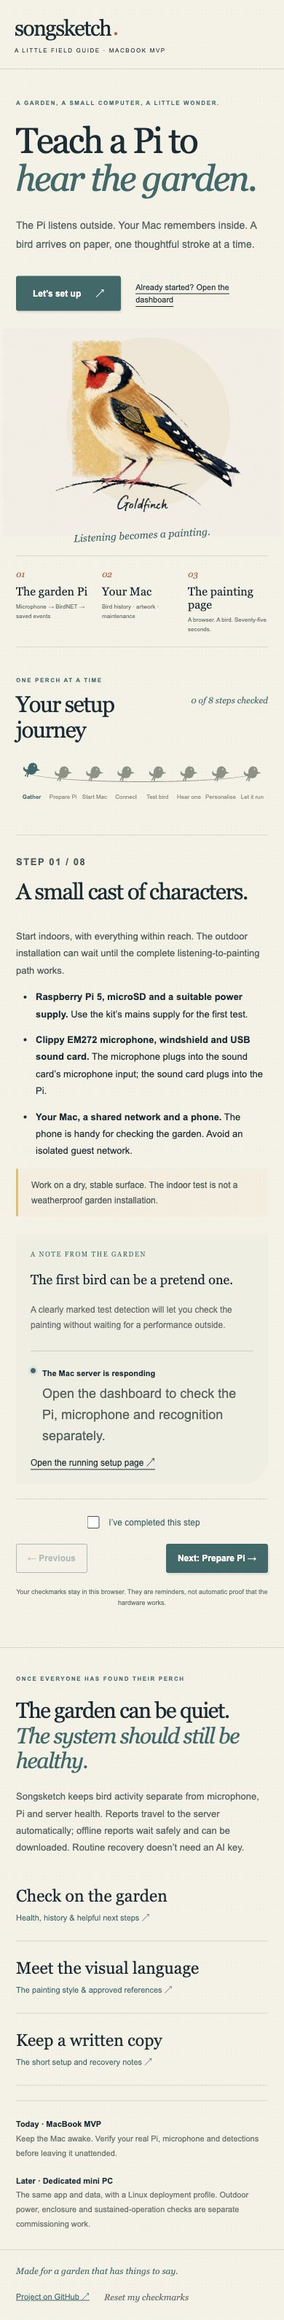
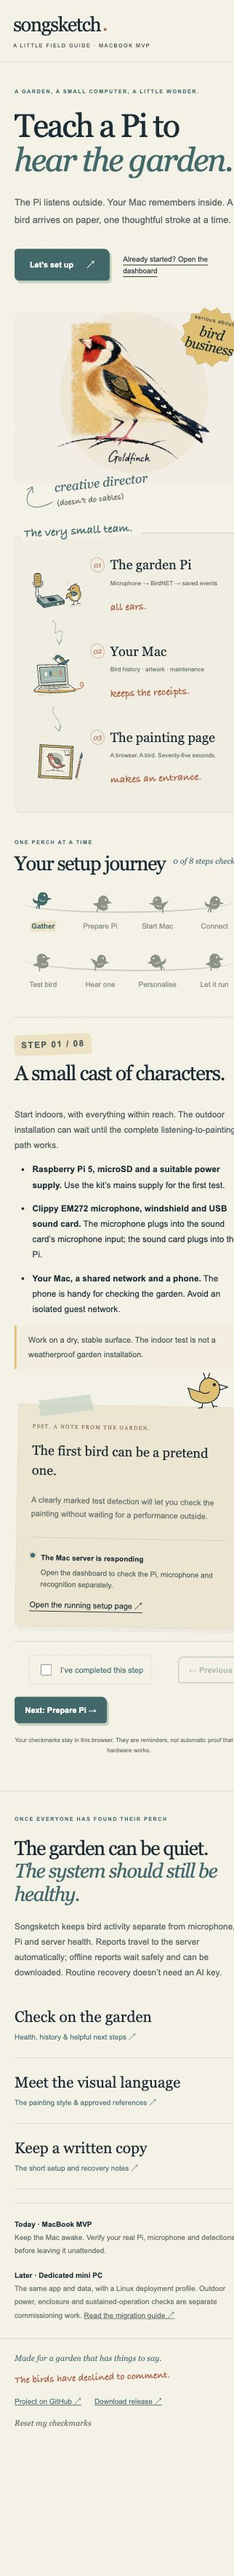
Give the setup field guide a playful illustrated personality

diff --git a/guide/assets/guide.css b/guide/assets/guide.css
@@ -1,1 +1,66 @@
 :root{--paper:#f5f1e6;--ink:#172d35;--teal:#35696b;--muted:#66716c;--line:#d7d8c9;--gold:#e4be67;--coral:#b96145;--white:#fffdf6;font-family:Arial,Helvetica,sans-serif;color:var(--ink);background:var(--paper);font-synthesis:none}*{box-sizing:border-box}body{margin:0;background-image:radial-gradient(#8b886f0d .65px,transparent .65px);background-size:5px 5px}a{color:inherit}button,input{font:inherit}button,a{touch-action:manipulation}button{cursor:pointer}button:focus-visible,a:focus-visible,input:focus-visible{outline:3px solid var(--coral);outline-offset:5px}button:disabled{opacity:.4;cursor:default}h1,h2,h3,p{margin-top:0}h1,h2,h3{font-family:Georgia,'Times New Roman',serif;font-weight:400;letter-spacing:-.045em}h1{font-size:clamp(50px,5.6vw,86px);line-height:1.05;margin-bottom:25px}h1 em,h2 em{font-weight:400;color:var(--teal)}h2{font-size:42px;line-height:1.15;margin-bottom:20px}h3{font-size:36px;line-height:1.2}.masthead,main,footer{max-width:1240px;margin:auto}.masthead{display:flex;align-items:center;gap:30px;padding:28px 36px;border-bottom:1px solid var(--line)}.wordmark{font:30px Georgia,serif;letter-spacing:-1.5px;text-decoration:none}.wordmark-dot{color:var(--coral);font-size:10px;margin-left:4px}.edition{font-size:11px;text-transform:uppercase;letter-spacing:1.6px;flex:1}.quiet-link,.text-link{font-size:12px;text-underline-offset:5px;line-height:1.6}.quiet-link{text-decoration:none}.intro{display:grid;grid-template-columns:1.12fr 1fr;align-items:center;min-height:530px;padding:64px 36px 42px;gap:12px}.eyebrow{text-transform:uppercase;letter-spacing:2.1px;font-size:10px;font-weight:700;color:var(--teal);margin-bottom:20px;line-height:1.7}.intro-copy{font-size:16px;line-height:1.9;color:#536463}.intro-actions{display:flex;align-items:center;gap:24px;margin-top:30px}.primary,.secondary{border-radius:3px;padding:14px 22px;font-size:12px;font-weight:600;border:1px solid var(--teal);text-decoration:none;display:inline-flex;align-items:center;justify-content:center;gap:20px}.primary{background:var(--teal);color:var(--white);box-shadow:2px 3px 0 #264e4c15}.primary:hover{background:#244f51}.secondary{background:transparent;color:var(--teal)}.hero-art{position:relative;isolation:isolate;margin:0;align-self:center}.hero-art img{width:106%;max-width:600px;display:block;margin-left:-3%;mix-blend-mode:multiply;position:relative}.hero-art figcaption{font:italic 16px Georgia,serif;color:var(--teal);text-align:center;transform:rotate(-3deg);margin-top:0}.art-halo{position:absolute;width:65%;height:80%;border-radius:50%;background:#e6c87522;top:4%;left:20%;z-index:-1}.system-strip{display:flex;align-items:center;justify-content:space-between;padding:24px 38px;border-block:1px solid var(--line);gap:20px;margin-inline:36px}.system-strip>div{display:grid;grid-template-columns:22px 1fr;gap:5px 10px}.number{grid-row:span 2;font:italic 16px Georgia,serif;color:var(--coral)}.system-strip strong{font:20px Georgia,serif}.system-strip small{font-size:10px;line-height:1.6;color:var(--muted)}.connection{font:24px Georgia,serif;color:#9aaf9e;letter-spacing:3px}.setup{padding:64px 36px 36px;scroll-margin-top:25px}.section-heading{display:flex;justify-content:space-between;align-items:end}.section-heading .eyebrow{margin-bottom:8px}.section-heading h2{margin-bottom:0}#progress-summary{font:italic 17px Georgia,serif;color:var(--teal)}.perch-nav{display:grid;grid-template-columns:repeat(8,1fr);position:relative;margin:35px 0 36px;padding:0;isolation:isolate}.perch-nav:before{content:"";height:28px;border-bottom:1px solid #8b9a87;border-radius:0 0 50% 50%;position:absolute;top:0;left:4%;right:4%;z-index:-1}.perch{border:0;background:none;color:#8b9285;display:flex;align-items:center;flex-direction:column;padding:0 3px;font-size:10px;gap:9px;min-height:76px}.perch svg{width:35px;height:37px;fill:currentColor;transform:rotate(-3deg);transition:transform .2s}.perch[aria-current=step]{color:var(--teal);font-weight:700}.perch[aria-current=step] svg{transform:translateY(-5px) rotate(4deg)}.perch.checked{color:var(--coral)}.perch span{max-width:85px;line-height:1.5}.step-layout{display:grid;grid-template-columns:1fr 300px;gap:55px;border-top:1px solid var(--line);padding-top:35px;min-height:420px}.step-content>.eyebrow{margin-bottom:10px}.step-content>p{font-size:14px;line-height:1.8;color:#4b5e5c}.step-content ul,.step-content ol{padding-left:22px;font-size:14px;line-height:1.8}.step-content li{padding-left:5px;margin-bottom:12px}.step-content a{color:var(--teal);text-underline-offset:4px}.step-content .tip{border-left:3px solid var(--gold);padding:11px 18px;font-size:12px;background:#e6c87512}.step-content .inline-actions{display:flex;gap:10px;flex-wrap:wrap;margin:20px 0}.step-content code{font-size:11px;overflow-wrap:anywhere;background:#e8e9de;padding:3px 5px}.field-note{background:#e7ebdf80;border-radius:2px 2px 35px 2px;padding:26px 25px;align-self:start}.field-note>.eyebrow{font-size:9px;margin-bottom:15px}.field-note p{font:19px/1.5 Georgia,serif}.field-note small{font:12px/1.7 Arial,sans-serif;color:var(--muted);display:block}.server-peek{display:flex;align-items:start;gap:9px;border-top:1px solid #c9d0c0;padding-top:19px;margin-top:25px}.server-peek strong{font-size:11px}.server-peek p{font:11px/1.6 Arial,sans-serif;margin:6px 0 12px;color:#566660}.status-dot{border-radius:50%;width:7px;height:7px;flex:none;margin-top:4px;background:#b5b5a5}.status-dot.good{background:var(--teal);box-shadow:0 0 0 3px #35696b17}.step-controls{display:flex;align-items:center;justify-content:space-between;gap:20px;padding-top:28px;margin-top:20px;border-top:1px solid var(--line)}.done-label{display:flex;align-items:center;gap:10px;font-size:12px;color:var(--teal)}input[type=checkbox]{accent-color:var(--teal);width:17px;height:17px}.saving-note{font-size:10px;color:var(--muted);text-align:center;line-height:1.6;margin-top:19px}.aftercare{display:grid;grid-template-columns:1.2fr 1fr;gap:80px;padding:65px 36px;border-top:1px solid var(--line);margin-top:25px}.aftercare h2{font-size:35px}.aftercare p:not(.eyebrow){font-size:13px;line-height:1.8;color:#536463;max-width:520px}.aftercare-links a{display:block;padding:23px 0;border-bottom:1px solid var(--line);text-decoration:none}.aftercare-links span{display:block;font:24px Georgia,serif;margin-bottom:7px}.aftercare-links small{font-size:11px;color:var(--teal)}.profiles{display:grid;grid-template-columns:1fr 1fr;gap:45px;margin:0 36px 36px;padding:22px 0;border-top:1px solid var(--line)}.profiles p{font-size:11px;line-height:1.8;color:var(--muted);margin:0}.profiles strong{color:var(--ink)}footer{padding:25px 36px;border-top:1px solid var(--line);display:flex;justify-content:space-between;gap:20px;font:italic 12px Georgia,serif;color:var(--teal)}footer>div{display:flex;gap:20px}footer button{border:0;padding:0;background:transparent;color:var(--muted);cursor:pointer}footer a{font:11px Arial,sans-serif}.reset-confirm{color:var(--coral)}[hidden]{display:none!important}@media(max-width:900px){.intro{grid-template-columns:1fr 1fr;padding-top:48px;min-height:460px}.intro-actions{align-items:start;flex-direction:column;gap:16px}.step-layout{grid-template-columns:1fr 240px;gap:30px}.system-strip{padding-inline:0}.connection{font-size:16px;letter-spacing:0}.aftercare{gap:35px}.edition{font-size:9px}}@media(max-width:640px){.masthead{padding:20px;gap:10px;flex-wrap:wrap}.edition{font-size:8px;flex:auto}.masthead .quiet-link{display:none}h1{font-size:49px}.intro{display:flex;flex-direction:column;padding:39px 22px 20px;align-items:stretch}.intro-copy{font-size:14px}.intro-copy br{display:none}.intro-actions{flex-direction:row;gap:20px;align-items:center}.intro-actions .text-link{max-width:150px;font-size:11px}.hero-art{max-width:380px;width:100%;margin-top:12px}.hero-art img{width:110%;margin-left:-5%}.hero-art figcaption{margin-top:-10px;font-size:14px}.eyebrow{font-size:8px;letter-spacing:1.6px}.system-strip{margin-inline:22px;padding:18px 0;align-items:stretch;gap:8px}.system-strip>div{display:block;flex:1}.system-strip .number{font-size:12px;display:block;margin-bottom:8px}.system-strip strong{font-size:16px;display:block}.system-strip small{font-size:8px;display:block;margin-top:5px}.connection{display:none}.setup{padding:38px 22px 20px}.section-heading{align-items:start;gap:10px}.section-heading h2{font-size:31px}#progress-summary{font-size:12px;margin-top:28px;white-space:nowrap}.perch-nav{margin:25px 0;gap:0;overflow:visible}.perch{font-size:8px;padding:0 1px}.perch svg{width:28px;height:34px}.perch span{max-width:42px}.step-layout{display:block;padding-top:25px;min-height:0}h3{font-size:31px}.step-content ul,.step-content ol,.step-content>p{font-size:13px}.field-note{margin-top:25px;padding:20px}.field-note p{font-size:18px}.step-controls{flex-wrap:wrap;padding-top:20px;gap:18px}.step-controls .primary,.step-controls .secondary{padding:12px 15px}.done-label{order:-1;width:100%;justify-content:center}.saving-note{font-size:9px}.aftercare{display:block;padding:35px 22px 20px}.aftercare h2{font-size:30px}.aftercare-links{margin-top:18px}.aftercare-links span{font-size:23px}.profiles{display:block;margin:0 22px 25px;padding-bottom:0}.profiles p+p{margin-top:18px}footer{display:block;padding:22px;font-size:12px}footer>div{margin-top:20px;flex-wrap:wrap}}@media(prefers-reduced-motion:reduce){*{scroll-behavior:auto!important;transition:none!important}}
+
+/* A field guide with a few uninvited contributors. Keep the instructions calm. */
+.margin-scribble,.director-note{font-family:'Bradley Hand','Segoe Print','Comic Sans MS',cursive;font-weight:400;letter-spacing:0;text-transform:none}
+.masthead-scribble{font-size:14px;color:var(--coral);transform:rotate(-4deg);white-space:nowrap}
+.intro{position:relative;min-height:550px;padding-top:55px;padding-bottom:62px}
+.hero-art{padding:10px 0 25px}
+.art-halo{border-radius:44% 56% 48% 52%;transform:rotate(14deg)}
+.bird-business{position:absolute;z-index:2;width:116px;height:116px;right:0;top:-12px;transform:rotate(12deg);color:var(--ink);pointer-events:none}
+.bird-business>svg{position:absolute;inset:0;width:100%;height:100%;fill:var(--gold);stroke:#b89544;stroke-width:.6}
+.bird-business>span{position:absolute;inset:20px 10px;text-align:center;font:9px/1.5 Arial,sans-serif;letter-spacing:1px}
+.bird-business b{display:block;font:italic 23px/.95 Georgia,serif;letter-spacing:-.6px;margin-top:4px}
+.hero-art .director-note{position:absolute;display:flex;gap:3px;align-items:end;text-align:left;bottom:-5px;left:0;transform:rotate(-6deg);font-size:20px;line-height:1.1;margin:0;color:var(--teal)}
+.director-note svg{width:68px;height:65px;fill:none;stroke:currentColor;stroke-width:1.7;stroke-linecap:round;stroke-linejoin:round;transform:rotate(-10deg)}
+.director-note span{padding-bottom:1px}.director-note small{font:14px/1.5 'Bradley Hand','Segoe Print','Comic Sans MS',cursive;color:var(--muted)}
+.primary{border-radius:5px 9px 5px 7px;box-shadow:3px 4px 0 #c5d1be;transition:transform .18s,box-shadow .18s}
+.primary:hover{transform:translateY(-2px) rotate(-1deg);box-shadow:4px 6px 0 #c5d1be}
+.secondary{border-radius:8px 3px 8px 4px}
+.system-strip{position:relative;padding:40px 26px 27px;gap:12px;border-top:1px solid #c0c9b6;border-bottom:1px solid #c0c9b6;background:#ecebdc70;border-radius:43% 2% 3% 2% / 2% 3% 2% 4%}
+.crew-intro{position:absolute;left:24px;top:-15px;margin:0;background:var(--paper);padding:0 13px 0 4px;color:var(--teal);font-size:20px;transform:rotate(-3deg)}
+.system-strip>.crew-member{position:relative;display:grid;grid-template-columns:25px 1fr;gap:6px 8px;flex:1;min-width:0}
+.crew-drawing{width:100%;height:142px;grid-column:1/-1;overflow:visible;margin-bottom:10px}
+.system-strip .number{display:flex;align-items:center;justify-content:center;width:24px;height:26px;border:1px solid #b9614570;border-radius:47% 53% 46% 54%;font-size:13px;transform:rotate(-10deg);grid-row:span 2}
+.system-strip strong{font-size:22px;white-space:nowrap}
+.system-strip small{font-size:10px}
+.crew-aside{grid-column:2;font-size:17px;line-height:1.5;color:var(--coral);transform:rotate(-2deg);margin-top:3px}
+.system-strip .connection{width:85px;height:60px;flex:none;align-self:center;margin-top:-77px;fill:none;stroke:var(--teal);stroke-width:1.6;stroke-linecap:round;stroke-linejoin:round;opacity:.7}
+.perch-nav:before{border-bottom:2px solid #8b9a8770;height:30px;transform:rotate(-.5deg)}
+.perch svg{overflow:visible;transition:transform .2s;transform-origin:50% 85%}
+.perch:nth-child(2) svg{transform:rotate(11deg)}
+.perch:nth-child(3) svg{transform:scaleX(-1) rotate(-8deg)}
+.perch:nth-child(5) svg{transform:rotate(-10deg)}
+.perch:nth-child(7) svg{transform:scaleX(-1) rotate(6deg)}
+.perch:hover svg,.perch[aria-current=step] svg{transform:translateY(-6px) rotate(-7deg)}
+.perch.checked svg{fill:var(--coral)}
+.perch[aria-current=step] span{background:#e4be674a;border-radius:45% 3% 20% 3%;padding-inline:5px}
+.step-layout{gap:58px}
+.step-content>.eyebrow{display:inline-block;transform:rotate(-2deg);padding:4px 10px;background:#e4be6750;border-radius:4px 9px 3px 5px}
+.field-note{position:relative;background:#eee5cf;border:1px solid #d4c7a550;box-shadow:4px 6px 0 #172d3508;border-radius:2px 3px 23px 3px;transform:rotate(1.6deg);margin-top:10px;padding-top:34px}
+.note-tape{position:absolute;top:-12px;left:29px;width:83px;height:25px;transform:rotate(-7deg);background:#c0d3c2b3;clip-path:polygon(0 5%,97% 0,100% 95%,4% 100%,0 85%,4% 65%,0 45%,4% 25%);border-inline:1px dashed #789b8560}
+.note-bird{position:absolute;right:12px;top:-66px;width:78px;height:76px;stroke:var(--ink);stroke-width:1.8;stroke-linecap:round;stroke-linejoin:round;fill:none;transform:rotate(-5deg)}
+.field-note>.eyebrow{color:#8a6243;font-size:8px;letter-spacing:1.5px}
+.field-note p{font-size:21px}.server-peek p{font-size:11px}
+.done-label{padding:10px 13px;border:1px dashed #8b9a8770;border-radius:3px 9px 4px 7px}
+.done-label:has(input:checked){background:#dce5d577;border-color:var(--teal)}
+.aftercare-links a:nth-child(2){transform:rotate(-1deg)}
+.footer-scribble{display:block;font-size:15px;color:var(--coral);margin-top:12px;transform:rotate(-2deg)}
+@media(max-width:1000px){.masthead-scribble{display:none}.system-strip{padding-inline:16px;gap:8px}.system-strip .connection{width:55px}.system-strip strong{font-size:19px}.crew-drawing{height:125px}.crew-aside{font-size:15px}.bird-business{width:98px;height:98px}.bird-business>span{inset:16px 8px;font-size:8px}.bird-business b{font-size:21px}.hero-art .director-note{left:-10px;font-size:18px}}
+@media(max-width:640px){
+ .intro{padding-top:37px;padding-bottom:43px;min-height:0}.hero-art{padding-bottom:30px;margin-top:26px}.hero-art img{width:100%;margin-left:0}.bird-business{right:1px;top:0;width:95px;height:95px}.hero-art .director-note{bottom:-6px;left:3px;font-size:19px}.director-note svg{width:55px;height:54px}.director-note small{font-size:13px}
+ .system-strip{display:flex;flex-direction:column;gap:0;margin:0 22px;padding:30px 16px 20px;align-items:stretch}.crew-intro{font-size:18px;left:10px}
+ .system-strip>.crew-member{display:grid;grid-template-columns:92px 23px 1fr;column-gap:7px;row-gap:4px;align-items:center;min-height:110px;width:100%}
+ .crew-drawing{grid-column:1;grid-row:1/4;width:96px;height:96px;margin:0}.system-strip .number{grid-column:2;grid-row:1;margin:0;width:21px;height:23px;font-size:11px}.system-strip strong{grid-column:3;grid-row:1;font-size:20px;white-space:normal;align-self:center}.system-strip small{grid-column:3;grid-row:2;font-size:9px;line-height:1.5;margin:0;align-self:start}.crew-aside{grid-column:3;grid-row:3;font-size:16px;margin:0 0 7px;align-self:start}
+ .system-strip .connection{display:block;align-self:start;width:43px;height:30px;margin:-5px 0 -5px 26px;transform:rotate(80deg)}
+ .section-heading h2{font-size:30px}.perch svg{width:29px}.perch[aria-current=step] span{padding-inline:2px}.field-note{margin:55px 3px 5px;padding:27px 21px 22px;transform:rotate(1deg)}.note-bird{right:15px;top:-61px;width:72px;height:70px}.field-note p{font-size:20px}.server-peek p{font-size:11px}.done-label{width:auto;margin:auto}.aftercare-links a:nth-child(2){transform:none}footer>div{row-gap:15px}
+}
+
+.crew-symbols{position:absolute;width:0;height:0;overflow:hidden;pointer-events:none}
+@media(prefers-reduced-motion:reduce){.primary,.perch svg{transition:none}.primary:hover{transform:none}}
+@media(max-width:640px){
+ .perch-nav{grid-template-columns:repeat(4,1fr);row-gap:12px}
+ .perch{font-size:11px;min-height:76px;gap:7px;padding-inline:3px}
+ .perch svg{width:34px;height:37px}
+ .perch span{max-width:76px}
+ .perch-nav:after{content:"";height:30px;border-bottom:2px solid #8b9a8770;border-radius:0 0 50% 50%;position:absolute;top:88px;left:4%;right:4%;z-index:-1;transform:rotate(.5deg)}
+}

diff --git a/guide/index.html b/guide/index.html
@@ -6,24 +6,128 @@
   <link rel="stylesheet" href="assets/guide.css">
 </head>
 <body>
-  <header class="masthead"><a class="wordmark" href="#">songsketch<span class="wordmark-dot">●</span></a><span class="edition">A little field guide · MacBook MVP</span><a class="quiet-link" href="../README.md">Project notes ↗</a></header>
+  <!-- Embedded for the standalone file guide as well as the served page. -->
+  <svg xmlns="http://www.w3.org/2000/svg" class="crew-symbols" aria-hidden="true" width="0" height="0">
+  <!-- Original Songsketch field-guide drawings. Each symbol has a transparent
+       200 × 140 canvas; labels and accessible names belong to the host page. -->
+  <symbol id="garden-pi" viewBox="0 0 200 140">
+    <g stroke="#263e48" stroke-width="1.8" stroke-linecap="round" stroke-linejoin="round">
+      <!-- The microphone leans towards its very interested neighbour. -->
+      <path d="M42 101C37 97 32 90 33 82L35 54" fill="none"/>
+      <path d="M28 27C28 16 47 14 50 25L51 50C51 61 31 64 30 52Z" fill="#d7aa58"/>
+      <path d="M32 24C34 20 42 19 46 22M32 30L47 28M32 36L47 34M33 42L48 40M34 48L48 46" stroke-width="1" fill="none"/>
+      <path d="M25 45L26 54C28 68 54 64 56 53L55 42M41 66L43 91" fill="none"/>
+      <path d="M40 90L50 89L51 101L38 103Z" fill="#eee5d2"/>
+      <!-- A little computer, with imperfect edges and a visible circuit. -->
+      <path d="M39 96L103 87L124 104L59 116Z" fill="#94b3a7"/>
+      <path d="M59 116L124 104L123 114L59 126L38 107L39 96L59 116Z" fill="#3e7878"/>
+      <path d="M59 116L59 126M42 101L55 112" fill="none"/>
+      <path d="M68 97L89 94L101 103L79 107Z" fill="#263e48"/>
+      <path d="M69 101L62 102L58 98M88 95L93 91M94 100L109 97M79 108L79 113M69 106L66 110" stroke="#f5efdf" stroke-width="1" fill="none"/>
+      <path d="M98 112L109 110L109 117L98 119Z" fill="#f5efdf"/>
+      <path d="M113 109L120 108L120 115L113 116Z" fill="#d7aa58"/>
+      <path d="M48 109L51 111M45 106L46 107M82 121L92 119" stroke="#b7d0c1" stroke-width="1"/>
+      <circle cx="58" cy="97" r="2.5" fill="#d9836c" stroke-width="1.2"/>
+      <!-- An original, inquisitive garden visitor; no costume required. -->
+      <path d="M144 78C139 69 141 58 151 55C164 50 175 60 172 72C181 84 174 103 160 106C150 108 138 99 139 91L129 99L132 83Z" fill="#d7aa58"/>
+      <path d="M169 76C167 87 159 91 148 88C146 99 157 105 165 101" fill="#f5efdf" stroke="none"/>
+      <path d="M144 79C147 74 159 76 165 82C160 91 147 94 144 79Z" fill="#3e7878"/>
+      <path d="M148 80L158 85M148 84L153 87" stroke="#a8c3b5" stroke-width="1.1"/>
+      <path d="M143 65L134 70L144 72" fill="#d9836c"/>
+      <circle cx="151" cy="65" r="2.5" fill="#263e48" stroke="none"/>
+      <circle cx="150.5" cy="64" r=".65" fill="#f5efdf" stroke="none"/>
+      <path d="M155 106L152 116L146 118M152 116L156 118M165 105L167 113L174 113M167 113L163 116M155 55L156 50M159 54L162 50" fill="none"/>
+      <path d="M132 54L128 50M136 48L135 43" stroke="#d9836c" stroke-width="1.4" fill="none"/>
+      <path d="M142 123L157 122M165 121L178 120" stroke="#d7aa58" stroke-width="1.2" fill="none"/>
+    </g>
+  </symbol>
+  <symbol id="indoor-mac" viewBox="0 0 200 140">
+    <g stroke="#263e48" stroke-width="1.8" stroke-linecap="round" stroke-linejoin="round">
+      <!-- An open laptop: the cable has acquired a slightly tail-like curl. -->
+      <path d="M38 36C61 34 103 36 131 33L136 96L44 100Z" fill="#eee5d2"/>
+      <path d="M45 43L125 41L129 88L50 93Z" fill="#9db9af"/>
+      <path d="M51 47L88 46M119 47L120 55" stroke="#c6d3bf" stroke-width="1.5" fill="none"/>
+      <path d="M44 100L136 96L159 113C120 121 66 122 28 115Z" fill="#f5efdf"/>
+      <path d="M28 115L30 120C74 126 122 124 159 117L159 113" fill="#d7aa58"/>
+      <path d="M53 101L127 98L139 107L42 112Z" fill="#e3d8c0" stroke-width="1.1"/>
+      <path d="M57 103L125 101M51 107L132 104M62 102L67 108M74 101L79 108M87 101L93 108M101 100L108 107M114 100L121 106" stroke-width=".7" fill="none"/>
+      <path d="M77 112L102 111L109 116L72 117Z" fill="#f5efdf" stroke-width="1"/>
+      <circle cx="86" cy="39" r="1" fill="#263e48" stroke="none"/>
+      <path d="M153 112C168 111 183 111 184 99C185 90 178 88 174 94C172 98 177 103 183 102" stroke="#d9836c" stroke-width="3.2" fill="none"/>
+      <path d="M154 110L158 112M177 91L180 90" stroke-width="1" fill="none"/>
+      <!-- A few small stored marks on the screen, rather than interface text. -->
+      <path d="M62 59L69 58L70 70L63 71Z" fill="#f5efdf" stroke="none"/>
+      <path d="M76 55L83 55L85 70L78 70Z" fill="#3e7878" stroke="none"/>
+      <path d="M91 59L98 58L99 69L92 70Z" fill="#d7aa58" stroke="none"/>
+      <path d="M107 52L114 52L116 68L109 69Z" fill="#d9836c" stroke="none"/>
+      <path d="M61 80C73 77 79 82 87 78C96 74 101 80 118 76" stroke="#f5efdf" stroke-width="1.3" fill="none"/>
+      <!-- The resident is calmly supervising from the lid. -->
+      <path d="M101 25C94 23 91 14 96 8C101 2 111 5 114 11C119 11 124 17 124 23L139 19L132 28C121 35 106 34 101 25Z" fill="#3e7878"/>
+      <path d="M97 19C100 28 110 30 116 27C110 22 109 16 108 12" fill="#f5efdf" stroke="none"/>
+      <path d="M114 17C121 16 126 22 122 26C116 27 111 23 114 17Z" fill="#d7aa58" stroke-width="1.1"/>
+      <path d="M95 13L87 16L96 18" fill="#d9836c" stroke-width="1.2"/>
+      <circle cx="101" cy="12" r="1.7" fill="#263e48" stroke="none"/>
+      <path d="M109 31L108 36L104 37M119 31L120 35L124 35" fill="none"/>
+      <path d="M119 20L121 22M97 8L95 5" stroke-width=".9" fill="none"/>
+      <path d="M40 129L64 130M72 130L81 130" stroke="#d7aa58" stroke-width="1.1" fill="none"/>
+    </g>
+  </symbol>
+  <symbol id="painting-page" viewBox="0 0 200 140">
+    <g stroke="#263e48" stroke-width="1.8" stroke-linecap="round" stroke-linejoin="round">
+      <!-- A slightly wonky frame and a sheet that refuses to lie quite flat. -->
+      <path d="M47 15L152 21L147 124L42 119Z" fill="#d7aa58"/>
+      <path d="M53 22L145 27L140 117L49 112Z" fill="#f5efdf"/>
+      <path d="M47 15L53 22M152 21L145 27M147 124L140 117M42 119L49 112" stroke-width="1" fill="none"/>
+      <path d="M48 32L45 83M44 96L44 109M150 34L146 89M59 120L85 121" stroke="#b78339" stroke-width="1.1" fill="none"/>
+      <path d="M58 30L138 34L134 109L56 106Z" fill="#f5efdf" stroke="#b8ad91" stroke-width=".7"/>
+      <!-- A single broad colour shape and a new, informal ink-and-paint bird. -->
+      <path d="M78 44C91 37 110 40 117 52C124 65 117 79 104 83C90 86 76 79 72 66C70 58 73 48 78 44Z" fill="#b7c8b1" stroke="none"/>
+      <path d="M73 54C70 46 76 41 82 44C87 45 89 51 88 56C102 53 114 66 112 77L127 81L114 87C98 94 80 83 78 70Z" fill="#d9836c"/>
+      <path d="M82 61C85 74 94 84 107 84C103 74 93 63 82 61Z" fill="#f5efdf" stroke="none"/>
+      <path d="M92 60C103 60 111 70 106 77C97 77 90 71 92 60Z" fill="#3e7878" stroke-width="1.2"/>
+      <path d="M96 64L103 72M95 68L98 72M99 63L106 69" stroke="#d7aa58" stroke-width=".9" fill="none"/>
+      <path d="M75 50L67 53L76 56" fill="#d7aa58" stroke-width="1.2"/>
+      <circle cx="80" cy="50" r="1.8" fill="#263e48" stroke="none"/>
+      <path d="M91 86L90 95L85 96M100 88L103 96L107 97M66 98C85 94 108 97 124 100" fill="none" stroke-width="1.3"/>
+      <path d="M81 44L82 40M88 72L90 76M90 79L93 82M112 82L119 83" fill="none" stroke-width=".8"/>
+      <!-- The paper curl catches a tiny coral edge. -->
+      <path d="M121 33C126 37 127 44 126 49C132 45 137 46 141 48C139 42 139 37 138 34Z" fill="#eee5d2" stroke-width="1.1"/>
+      <path d="M126 49C131 45 136 45 141 48L136 51Z" fill="#d9836c" stroke-width=".8"/>
+      <path d="M59 33L59 44M61 34L61 38M124 104L130 104" stroke="#dfd5bb" stroke-width=".8" fill="none"/>
+      <!-- A well-used brush, set down with its paint still on the tip. -->
+      <path d="M159 119L171 67L175 68L164 120Z" fill="#d9836c" stroke-width="1.3"/>
+      <path d="M171 67L173 58L177 59L175 68Z" fill="#eee5d2" stroke-width="1.1"/>
+      <path d="M173 58C171 51 178 47 178 40C183 48 182 54 177 59Z" fill="#3e7878" stroke-width="1.3"/>
+      <path d="M176 53L178 47" stroke="#a4bfaf" stroke-width=".8" fill="none"/>
+      <path d="M159 126C165 124 170 126 176 124" stroke="#d7aa58" stroke-width="1.1" fill="none"/>
+    </g>
+  </symbol>
+</svg>
+  <header class="masthead"><a class="wordmark" href="#">songsketch<span class="wordmark-dot">●</span></a><span class="edition">A little field guide · MacBook MVP</span><span class="margin-scribble masthead-scribble">human assembly required</span><a class="quiet-link" href="../README.md">Project notes ↗</a></header>
   <main>
     <section class="intro" aria-labelledby="page-title">
       <div><p class="eyebrow">A garden, a small computer, a little wonder.</p><h1 id="page-title">Teach a Pi to<br><em>hear the garden.</em></h1><p class="intro-copy">The Pi listens outside. Your Mac remembers inside.<br> A bird arrives on paper, one thoughtful stroke at a time.</p><div class="intro-actions"><button class="primary" id="begin">Let’s set up <span aria-hidden="true">↗</span></button><a class="text-link" href="http://localhost:8765/dashboard">Already started? Open the dashboard</a></div></div>
-      <figure class="hero-art"><span class="art-halo" aria-hidden="true"></span><img src="../artwork/thumbnails/goldfinch.png" alt="Our approved goldfinch painting: red face, golden wings and delicate ink details on cream paper"><figcaption>Listening becomes a painting.</figcaption></figure>
+      <figure class="hero-art"><span class="art-halo" aria-hidden="true"></span><span class="bird-business" aria-hidden="true"><svg viewBox="0 0 120 120"><path d="M60 3 71 12 85 8 91 21 106 23 107 38 118 48 111 61 116 75 103 83 100 99 84 100 73 114 60 108 46 116 36 103 20 101 18 85 5 76 10 62 2 49 14 39 14 24 29 21 35 8 49 12Z"/></svg><span>serious about<br><b>bird<br>business</b></span></span><img src="../artwork/thumbnails/goldfinch.png" alt="Our approved goldfinch painting: red face, golden wings and delicate ink details on cream paper"><figcaption class="director-note"><svg viewBox="0 0 100 76" aria-hidden="true"><path d="M91 69C25 85 3 46 49 16M33 17l17-4-4 18"/></svg><span>creative director<br><small>(doesn’t do cables)</small></span></figcaption></figure>
     </section>
-    <section class="system-strip" aria-label="How Songsketch connects"><div><span class="number">01</span><strong>The garden Pi</strong><small>Microphone → BirdNET → saved events</small></div><span class="connection" aria-hidden="true">······→</span><div><span class="number">02</span><strong>Your Mac</strong><small>Bird history · artwork · maintenance</small></div><span class="connection" aria-hidden="true">······→</span><div><span class="number">03</span><strong>The painting page</strong><small>A browser. A bird. Seventy-five seconds.</small></div></section>
+    <section class="system-strip" aria-label="How Songsketch connects">
+      <p class="crew-intro margin-scribble">The very small team.</p>
+      <div class="crew-member"><svg class="crew-drawing" viewBox="0 0 200 140" aria-hidden="true"><use href="#garden-pi"/></svg><span class="number">01</span><strong>The garden Pi</strong><small>Microphone → BirdNET → saved events</small><span class="crew-aside margin-scribble">all ears.</span></div>
+      <svg class="connection" viewBox="0 0 100 60" aria-hidden="true"><path d="M6 37C23 9 62 56 48 26S68 12 91 28M78 14l14 14-21 5"/></svg>
+      <div class="crew-member"><svg class="crew-drawing" viewBox="0 0 200 140" aria-hidden="true"><use href="#indoor-mac"/></svg><span class="number">02</span><strong>Your Mac</strong><small>Bird history · artwork · maintenance</small><span class="crew-aside margin-scribble">keeps the receipts.</span></div>
+      <svg class="connection" viewBox="0 0 100 60" aria-hidden="true"><path d="M5 31C33 56 58 4 91 28M75 17l18 11-18 13"/></svg>
+      <div class="crew-member"><svg class="crew-drawing" viewBox="0 0 200 140" aria-hidden="true"><use href="#painting-page"/></svg><span class="number">03</span><strong>The painting page</strong><small>A browser. A bird. Seventy-five seconds.</small><span class="crew-aside margin-scribble">makes an entrance.</span></div>
+    </section>
     <section class="setup" id="setup" aria-labelledby="setup-heading">
       <div class="section-heading"><div><p class="eyebrow">One perch at a time</p><h2 id="setup-heading">Your setup journey</h2></div><p id="progress-summary" aria-live="polite">0 of 8 steps checked</p></div>
       <nav class="perch-nav" id="step-nav" aria-label="Setup steps"></nav>
-      <div class="step-layout"><article id="step-content" class="step-content" aria-live="polite"></article><aside class="field-note"><p class="eyebrow">A note from the garden</p><div id="field-note"></div><div class="server-peek"><span class="status-dot unknown" id="server-dot"></span><div><strong id="server-label">Your Mac server</strong><p id="server-message">Open Start Songsketch.command to bring it to life.</p></div></div><a href="http://localhost:8765/setup" class="text-link">Open the running setup page ↗</a></aside></div>
+      <div class="step-layout"><article id="step-content" class="step-content" aria-live="polite"></article><aside class="field-note"><span class="note-tape" aria-hidden="true"></span><svg class="note-bird" viewBox="0 0 100 90" aria-hidden="true"><path d="M20 65C6 60 11 45 6 37L30 47C28 25 47 12 62 23 73 29 76 42 70 55 62 73 35 76 20 65Z" fill="#e4be67"/><path d="m71 34 19 7-17 5M30 45c6 7 15 8 21 3M35 71l-3 11m2-3-9 2m29-11 3 12m-1-4 9 2"/><circle cx="62" cy="34" r="2.4" fill="#172d35"/><path d="m44 19-3-11m9 11 4-10"/></svg><p class="eyebrow">Psst. A note from the garden.</p><div id="field-note"></div><div class="server-peek"><span class="status-dot unknown" id="server-dot"></span><div><strong id="server-label">Your Mac server</strong><p id="server-message">Open Start Songsketch.command to bring it to life.</p></div></div><a href="http://localhost:8765/setup" class="text-link">Open the running setup page ↗</a></aside></div>
       <div class="step-controls"><button class="secondary" id="previous">← Previous</button><label class="done-label"><input type="checkbox" id="step-done"><span>I’ve completed this step</span></label><button class="primary" id="next">Next step →</button></div>
       <p class="saving-note">Your checkmarks stay in this browser. They are reminders, not automatic proof that the hardware works.</p>
     </section>
     <section class="aftercare"><div><p class="eyebrow">Once everyone has found their perch</p><h2>The garden can be quiet.<br><em>The system should still be healthy.</em></h2><p>Songsketch keeps bird activity separate from microphone, Pi and server health. Reports travel to the server automatically; offline reports wait safely and can be downloaded. Routine recovery doesn’t need an AI key.</p></div><div class="aftercare-links"><a href="http://localhost:8765/dashboard"><span>Check on the garden</span><small>Health, history & helpful next steps ↗</small></a><a href="../artwork/style-guide.html"><span>Meet the visual language</span><small>The painting style & approved references ↗</small></a><a href="../docs/friend-start-here.md"><span>Keep a written copy</span><small>The short setup and recovery notes ↗</small></a></div></section>
     <section class="profiles"><p><strong>Today · MacBook MVP</strong><br>Keep the Mac awake. Verify your real Pi, microphone and detections before leaving it unattended.</p><p><strong>Later · Dedicated mini PC</strong><br>The same app and data, with a Linux deployment profile. Outdoor power, enclosure and sustained-operation checks are separate commissioning work. <a href="../docs/production.md">Read the migration guide ↗</a></p></section>
   </main>
-  <footer><span>Made for a garden that has things to say.</span><div><a id="repository-link" hidden rel="noopener" target="_blank">Project on GitHub ↗</a><a id="release-link" hidden rel="noopener" target="_blank">Download release ↗</a><button class="text-link" id="reset-progress">Reset my checkmarks</button></div></footer>
+  <footer><span>Made for a garden that has things to say.<small class="footer-scribble margin-scribble">The birds have declined to comment.</small></span><div><a id="repository-link" hidden rel="noopener" target="_blank">Project on GitHub ↗</a><a id="release-link" hidden rel="noopener" target="_blank">Download release ↗</a><button class="text-link" id="reset-progress">Reset my checkmarks</button></div></footer>
   <script src="project.js"></script><script src="assets/guide.js"></script>
 </body>
 </html>

diff --git a/guide/assets/guide.js b/guide/assets/guide.js
@@ -13,11 +13,16 @@
   let saved = {}; try { saved = JSON.parse(localStorage.getItem('songsketch-guide-v1') || '{}'); } catch (_) {}
   let active = Math.max(0, Math.min(7, Number(saved.active) || 0));
   const checked = new Set(Array.isArray(saved.checked) ? saved.checked.filter(x => Number.isInteger(x) && x >= 0 && x < 8) : []);
-  const bird = `<svg viewBox="0 0 42 42" aria-hidden="true"><path d="M9 26c-7-2-6-8-4-11 1 5 4 7 8 6-1-9 5-16 12-14 6 1 8 7 7 11l7 3-8 2c-2 7-8 10-15 7l-2 7h-2l1-8-4 7H7l5-9z"/><circle cx="26" cy="13" r="1.2" fill="#f5f1e6"/></svg>`;
+  // A shared flock, with enough different postures to look like birds on a wire.
+  const birds = [
+    `<svg viewBox="0 0 42 42" aria-hidden="true"><path d="M9 26c-7-2-6-8-4-11 1 5 4 7 8 6-1-9 5-16 12-14 6 1 8 7 7 11l7 3-8 2c-2 7-8 10-15 7l-2 7h-2l1-8-4 7H7l5-9z"/><circle cx="26" cy="13" r="1.6" fill="#f5f1e6"/><path d="M16 20q5 6 10 2" fill="none" stroke="#f5f1e6" stroke-width="1"/></svg>`,
+    `<svg viewBox="0 0 42 42" aria-hidden="true"><path d="M12 27 3 24l10-4C10 6 22 1 29 8c5 5 3 9 1 12 9 10-4 16-14 11l-1 6h-2l1-7zM30 12l9 4-9 3"/><circle cx="26" cy="12" r="1.6" fill="#f5f1e6"/><path d="M20 23q6 6 9 1M21 32l3 5" fill="none" stroke="#f5f1e6" stroke-width="1"/></svg>`,
+    `<svg viewBox="0 0 42 42" aria-hidden="true"><path d="M11 26 3 12l13 8C15 8 24 4 30 10c3 3 3 7 2 10l7 3-9 2c-4 7-11 9-17 5l-1 7h-2l1-8z"/><circle cx="27" cy="14" r="1.6" fill="#f5f1e6"/><path d="M16 24q5 3 10-1M19 31l2 6" fill="none" stroke="#f5f1e6" stroke-width="1"/></svg>`
+  ];
   const $ = id => document.getElementById(id);
   function persist() { try { localStorage.setItem('songsketch-guide-v1',JSON.stringify({active,checked:[...checked]})); } catch (_) {} }
   function render() {
-    $('step-nav').innerHTML = steps.map((s,i) => `<button class="perch ${checked.has(i)?'checked':''}" data-step="${i}" ${i===active?'aria-current="step"':''} aria-label="Step ${i+1}: ${s.short}${checked.has(i)?', checked':''}">${bird}<span>${s.short}</span></button>`).join('');
+    $('step-nav').innerHTML = steps.map((s,i) => `<button class="perch ${checked.has(i)?'checked':''}" data-step="${i}" ${i===active?'aria-current="step"':''} aria-label="Step ${i+1}: ${s.short}${checked.has(i)?', checked':''}">${birds[i%birds.length]}<span>${s.short}</span></button>`).join('');
     const s = steps[active];
     $('step-content').innerHTML = `<p class="eyebrow">Step ${String(active+1).padStart(2,'0')} / 08</p><h3>${s.title}</h3><p>${s.lead}</p>${s.body}`;
     $('field-note').innerHTML = `<p>${s.note}</p><small>${s.small}</small>`;

diff --git a/guide/project.js b/guide/project.js
@@ -1,1 +1,1 @@
-window.SONGSKETCH_PROJECT = {"name": "Songsketch", "version": "0.1.0-mvp", "repository_url": "https://github.com/katkinkead/songsketch", "release_url": "https://github.com/katkinkead/songsketch/releases", "private": true};
+window.SONGSKETCH_PROJECT = {"name": "Songsketch", "version": "0.1.1-mvp", "repository_url": "https://github.com/katkinkead/songsketch", "release_url": "https://github.com/katkinkead/songsketch/releases", "private": true};

diff --git a/RELEASE_NOTES.md b/RELEASE_NOTES.md
@@ -1,15 +1,11 @@
-# Songsketch 0.1.0 — the garden rehearsal
+# Songsketch 0.1.1 — a little bird business
 
-This first installable MVP joins the illustrated setup guide, Mac server, Pi relay, dashboard and five approved75-second bird paintings in one portable project.
+The setup field guide now has a little more mischief: an illustrated Pi → Mac → painting team, a goldfinch creative director, a wonky bird-business badge, handwritten asides, taped notes and a varied flock on the setup wire. On phones, the navigation uses two roomy rows of birds.
 
-Extract the ZIP and open **Start Songsketch.command** on the Mac. It checks Python, starts the supervised local application and opens the guide. Use **Pair Garden Pi.command** for the physical Pi once its OS/network/SSH are ready. The supplied CanaKit card can be reused if it has a supported64-bit OS; imaging is conditional.
+The setup instructions, server, dashboard, Pi relay and five approved 75-second animations are unchanged. The illustrations are embedded in the HTML so they also travel with the standalone guide; no remote font or image service is needed.
 
-Included: persistent bird history, replay-safe Pi delivery, species-to-art catalogue, weighted idle paintings, truthful small status marks, missing-art email outbox, diagnostics, bounded recovery, backups, migration export and Linux host profile. AI tools remain optional and operator-triggered. Existing playback needs no AI key.
+Extract the ZIP and open **Start Songsketch.command** on the Mac. The guide links to the private repository and release downloads.
 
-Art, style and diagnostic AI jobs produce reviewable drafts. The animation action prepares an authoring/registration proposal; a new species still requires choreography and visual validation before becoming a live animation. The five bundled birds are ready to play.
+**Checked for this update:** desktop and narrow-screen rendering, no horizontal overflow or missing images, setup navigation, checkmark updates, project links, no browser console errors, JavaScript syntax and package preflight. The underlying MVP retains its 78-test Mac/Linux verification from 0.1.0; no hardware or provider commissioning is newly claimed.
 
-**Verification:**78 automated tests pass locally, from an extracted package, and in Mac/Linux CI. Browser checks cover the guide, dashboard and painting display; real-process tests cover crash recovery and saved history. See `docs/verification.md`.
-
-**Commissioning remains:** actual Pi installation, microphone/BirdNET recognition, network and reboot tests, real SMTP delivery, optional paid model access, and the eventual mini PC/outdoor hardware. No email account or AI credential is included. No persistent service was installed on Katharine’s computer during development.
-
-The repository/release are private. Share the ZIP directly with the friend, or grant repository access separately. Runtime data and credentials are not part of this release.
+Actual Pi/microphone setup, real SMTP delivery and optional paid AI access still need the installer’s equipment and credentials. New-species animation proposals still require authoring and visual approval. Share this private release through repository access or send the ZIP directly.

diff --git a/docs/verification.md b/docs/verification.md
@@ -28,3 +28,7 @@ Browser testing of the key-removal control stopped at its confirmation. No real 
 6. The selected mini PC, restored migration bundle, startup after power loss, sustained use and outdoor enclosure/power/environment.
 
 These are explicit acceptance steps in the guide. A checkmark in the guide is a saved human reminder, not a hardware result. A successful setup simulation is excluded from real bird counts.
+
+## 0.1.1 guide appearance update
+
+The guide’s original illustrations, paper notes and bird navigation were checked in the running local application at desktop and narrow mobile widths. No horizontal overflow, broken images or browser console errors were observed. Step navigation and checkmark updates work, and the technical instructions and application behaviour are unchanged. The three equipment illustrations are embedded SVG symbols so the standalone HTML does not rely on cross-file SVG references. JavaScript syntax and package preflight pass. This appearance-only update does not add new hardware or provider verification.
